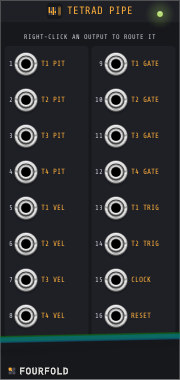
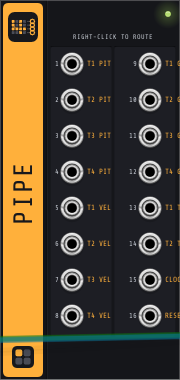
Matte aluminium relief on both panels; amber name band on the Pipe
Tetrad keeps its compact header, its 56 HP being fully used. The Pipe
gets the full-height amber band with logo, vertical name and Fourfold
mark in dark; its jack columns shift right of it.

diff --git a/src/branding.hpp b/src/branding.hpp
@@ -4,14 +4,18 @@
 
 #include "plugin.hpp"
 
-struct Branding : rack::TransparentWidget {
-    std::shared_ptr<rack::window::Svg> logo, lockup;
-    std::string name;
+constexpr float kStripWidth = 46.f;
 
-    Branding(const std::string& logoFile, const std::string& moduleName) : name(moduleName)
+struct Branding : rack::TransparentWidget {
+    std::shared_ptr<rack::window::Svg> logo, mark;
+    std::string name;
+    bool vertical = false;   // A2 strip on the left edge; else a compact header
+
+    Branding(const std::string& logoFile, const std::string& moduleName, bool strip = false)
+        : name(moduleName), vertical(strip)
     {
         logo = rack::window::Svg::load(rack::asset::plugin(pluginInstance, logoFile));
-        lockup = rack::window::Svg::load(rack::asset::plugin(pluginInstance, "res/brand/fourfold-lockup.svg"));
+        mark = rack::window::Svg::load(rack::asset::plugin(pluginInstance, "res/brand/fourfold.svg"));
     }
 
     static void drawSvg(NVGcontext* vg, const rack::window::Svg& svg, float x, float y, float scale)
@@ -26,20 +30,41 @@ struct Branding : rack::TransparentWidget {
     void draw(const DrawArgs& args) override
     {
         auto font = panelFont();
-        if (!font || !logo || !lockup)
+        if (!font || !logo || !mark)
             return;
         NVGcontext* vg = args.vg;
         nvgFontFaceId(vg, font->handle);
+        nvgFillColor(vg, nvgRGB(255, 176, 59));
+        if (vertical) {
+            // The amber band of the header, turned on its side; logo, name and mark in dark on it.
+            const float cx = kStripWidth / 2.f, logoSize = 30.f, markSize = 22.f;
+            nvgBeginPath(vg);
+            nvgRoundedRect(vg, 3.f, 3.f, kStripWidth - 6.f, box.size.y - 6.f, 5.f);
+            nvgFillColor(vg, nvgRGB(255, 176, 59));
+            nvgFill(vg);
+            drawSvg(vg, *logo, cx - logoSize / 2.f, 12.f, logoSize / 64.f);
+            drawSvg(vg, *mark, cx - markSize / 2.f, box.size.y - markSize - 12.f, markSize / 64.f);
+            nvgFillColor(vg, nvgRGB(23, 24, 28));
+            nvgFontSize(vg, 30.f);
+            nvgTextAlign(vg, NVG_ALIGN_CENTER | NVG_ALIGN_MIDDLE);
+            nvgTextLetterSpacing(vg, 2.f);
+            const float top = 12.f + logoSize + 10.f, bottom = box.size.y - markSize - 22.f;
+            nvgSave(vg);
+            nvgTranslate(vg, cx, (top + bottom) / 2.f);
+            nvgRotate(vg, -M_PI / 2.f);
+            nvgText(vg, 0, 1.f, name.c_str(), nullptr);
+            nvgRestore(vg);
+            return;
+        }
         nvgFontSize(vg, 12.f);
         float bounds[4];
         const float textWidth = nvgTextBounds(vg, 0, 0, name.c_str(), nullptr, bounds);
         const float icon = 16.f, gap = 5.f;
         const float x = (box.size.x - icon - gap - textWidth) / 2;
         drawSvg(vg, *logo, x, 3.f, icon / 64.f);
-        nvgFillColor(vg, nvgRGB(255, 176, 59));   // brand amber
         nvgTextAlign(vg, NVG_ALIGN_LEFT | NVG_ALIGN_MIDDLE);
         nvgText(vg, x + icon + gap, 11.5f, name.c_str(), nullptr);
-        const float height = 12.f;   // the lockup is 462 x 88
-        drawSvg(vg, *lockup, 6.f, box.size.y - height - 3.f, height / 88.f);
+        const float markSize = 14.f;
+        drawSvg(vg, *mark, 6.f, box.size.y - markSize - 3.f, markSize / 64.f);
     }
 };

diff --git a/src/Pipe.cpp b/src/Pipe.cpp
@@ -176,7 +176,7 @@ const NVGcolor kLabel = nvgRGB(201, 206, 214);
 const NVGcolor kRoute = nvgRGB(255, 176, 59);   // brand amber
 
 // Panel layout (Rack pixels, 12 HP = 180 px wide): outputs 1-8 left, 9-16 right.
-constexpr float kLeftX = 26, kRightX = 116, kRowY = 64, kRowStep = 36;
+constexpr float kLeftX = 26 + kStripWidth, kRightX = 116 + kStripWidth - 12, kRowY = 64, kRowStep = 36;
 Vec jackPos(int i) { return Vec(i < 8 ? kLeftX : kRightX, kRowY + (i % 8) * kRowStep); }
 
 // Right-click menu of an output: signal, track and row.
@@ -253,7 +253,7 @@ struct StaticLabels : TransparentWidget {
         nvgFillColor(vg, kLabel);
         nvgTextAlign(vg, NVG_ALIGN_CENTER | NVG_ALIGN_MIDDLE);
         nvgFontSize(vg, 7.5f);
-        nvgText(vg, 90, 37, "RIGHT-CLICK AN OUTPUT TO ROUTE IT", nullptr);
+        nvgText(vg, (180 + kStripWidth) / 2.f, 37, "RIGHT-CLICK TO ROUTE", nullptr);
         nvgTextAlign(vg, NVG_ALIGN_RIGHT | NVG_ALIGN_MIDDLE);
         nvgFontSize(vg, 8.f);
         for (int i = 0; i < pipe::kOutputs; ++i) {
@@ -279,8 +279,8 @@ struct TetradPipeWidget : ModuleWidget {
             port->index = i;
             addOutput(port);
         }
-        addChild(createLightCentered<SmallLight<GreenLight>>(Vec(160, 14), module, TetradPipe::LINK_LIGHT));
-        auto* branding = new Branding("res/brand/tetrad-pipe.svg", "TETRAD PIPE");
+        addChild(createLightCentered<SmallLight<GreenLight>>(Vec(168, 14), module, TetradPipe::LINK_LIGHT));
+        auto* branding = new Branding("res/brand/tetrad-pipe.svg", "PIPE", true);
         branding->box.size = box.size;
         addChild(branding);
         auto* routing = new RoutingLabels;

diff --git a/CHANGELOG.md b/CHANGELOG.md
@@ -1,5 +1,11 @@
 # Changelog
 
+## 2.6.5
+
+- Matte aluminium relief on both panels (faint gradient, recessed zones). The Pipe gets the
+  vertical name strip on its left edge with the Fourfold mark; Tetrad keeps its compact header,
+  as its 56 HP are fully used.
+
 ## 2.6.4
 
 - Each panel shows its module logo and name at the top centre and the Fourfold lockup at the
